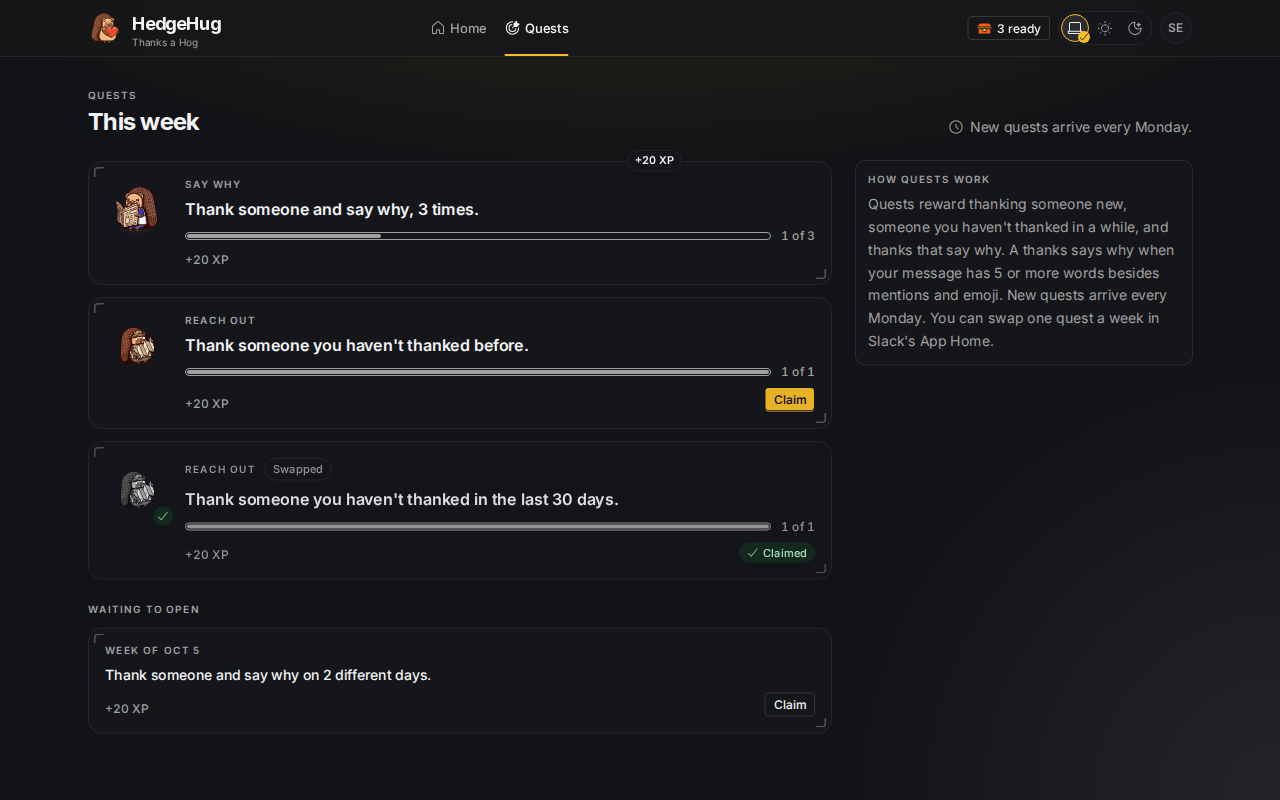
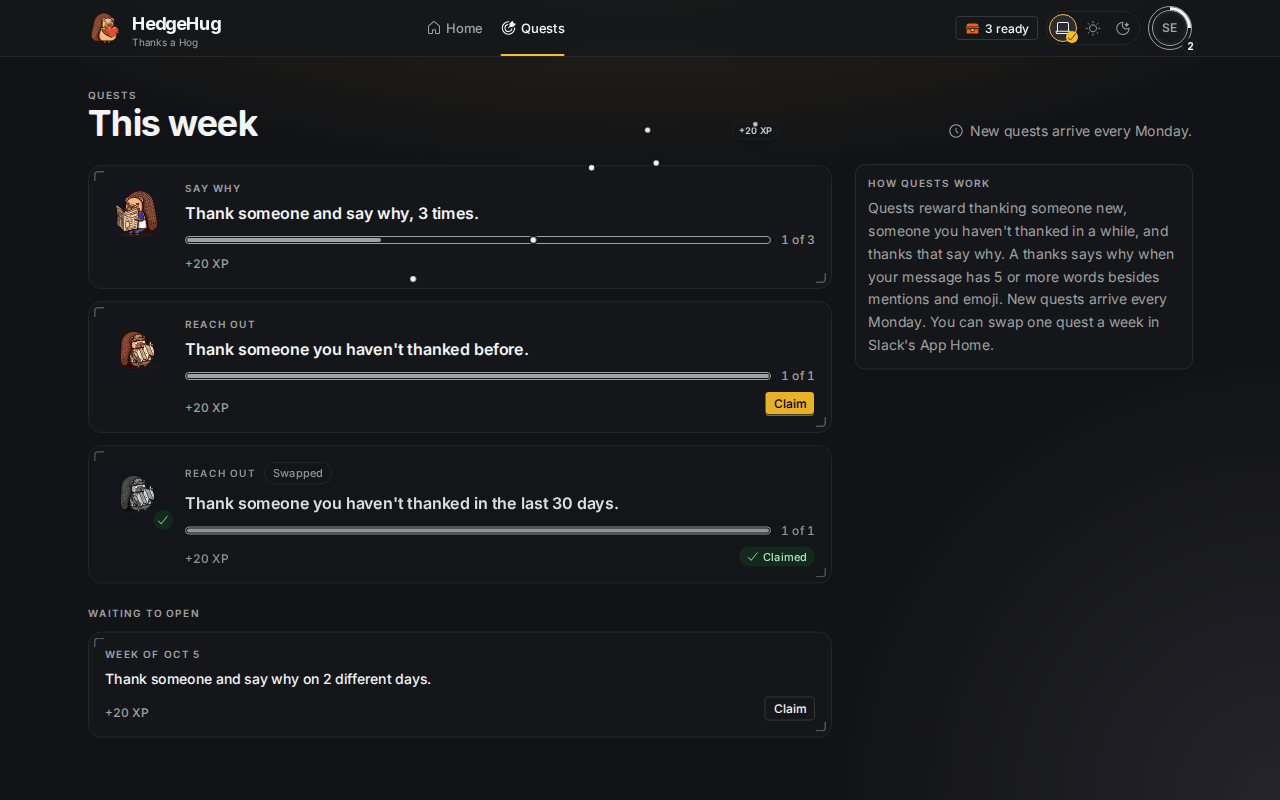
Add #273's HUD fill proof, round 2 review and gate

diff --git a/website/proof/quest-art/review-gpt-6.1-sol-round-2.md b/website/proof/quest-art/review-gpt-6.1-sol-round-2.md
@@ -1,0 +1,7 @@
+Found two new defects:
+
+1. **Medium — [moments.ts:123](/home/coder/dev/kudos-wt/quest-art/website/src/crates/moments.ts:123): queued Claims lose earlier flights (WS315).** Press two different Claims before either command answers, then let both succeed. Closing the first reveal defers its flight because another reveal remains; closing the second overwrites it. Only the second reward flies. Reproduced with a read-only React probe. **Fix:** preserve each pending flight and play each once, keeping focus restoration before measurement.
+
+2. **Low — [RewardFlight.tsx:75](/home/coder/dev/kudos-wt/quest-art/website/src/crates/RewardFlight.tsx:75): cancelling the landing bump leaves its class attached (WS339).** Enable reduced motion during the avatar’s 320 ms bump. The new CSS cancels the animation, but cleanup listens only for `animationend`. Turning reduced motion off later restarts the old bump without another Claim. The cancellation probe confirmed the retained class. **Fix:** remove `reward-landed` on both end and cancellation, removing both listeners when either fires.
+
+The four Round 1 fixes hold; focus-before-measurement was verified without StrictMode. No defects found in the merged `/skills` or `/book` routing. No files changed.
